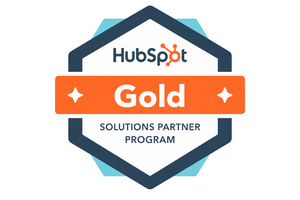
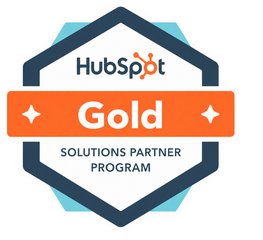
Fix footer HubSpot Gold badge shrinking
The badge image sat in a flex row next to long text and was squeezed
(max-width: 100% on a shrinkable flex item), and the source image had
wide transparent side margins. Trim the margins from the original,
keep the picture from shrinking, and show it at 84px tall.

Claude-Session: https://claude.ai/code/session_019GC5r8s4FTnHNDF9WF2C3v

Changed region(s): [[0.0, 0.03, 0.9125, 0.96], [0.5475, 0.84, 0.6084, 0.9]]

diff --git a/assets/css/site.css b/assets/css/site.css
@@ -611,8 +611,9 @@ body.is-dragging, body.is-dragging * { cursor: grabbing !important; }
 .footer-brand img.footer-logo { height: 40px; width: auto; }
 .footer-brand__tagline { margin-top: 18px; font-weight: 600; font-size: 17px; letter-spacing: -.02em; }
 .footer-brand p { margin-top: 10px; color: var(--text-3); font-size: 14px; line-height: 1.7; max-width: 360px; }
-.footer-badge { display: flex; align-items: center; gap: 14px; margin-top: 22px; }
-.footer-badge img { height: 64px; width: auto; }
+.footer-badge { display: flex; align-items: center; gap: 16px; margin-top: 22px; }
+.footer-badge picture { flex: 0 0 auto; }
+.footer-badge img { height: 84px; width: auto; max-width: none; }
 .footer-badge p { margin: 0; font-size: 12.5px; line-height: 1.55; }
 .footer-col h2 { font: 500 12px/1.2 var(--mono); letter-spacing: .1em; text-transform: uppercase; color: var(--text-3); margin-bottom: 16px; }
 .footer-col a { display: block; width: fit-content; padding: 6px 0; font-size: 14.5px; color: var(--text-2); transition: color .2s, transform .2s var(--ease); }

diff --git a/tools/optimize-images.py b/tools/optimize-images.py
@@ -12,7 +12,7 @@ CLIENT_LOGOS = ['ESA-1', 'BH-Labs-1', 'CW-Systems-1', 'Independent-Energy-1', 'I
                 'modern-engineering-1', 'private-tax-solutions-1', 'S8T-1', 'broker-capital-1', 'crypto-consulting-1', 'guitierrez-1']
 # name -> (max width, max height). Shown sizes: marquee logos 44px tall, partner badge 64px tall,
 # integration logos 24-30px. The founder photo is already sized for its ~420px slot.
-LIMITS = {**{n: (480, 132) for n in CLIENT_LOGOS}, 'HubSpot-Gold-Badge': (300, 200)}
+LIMITS = {**{n: (480, 132) for n in CLIENT_LOGOS}, 'HubSpot-Gold-Badge': (300, 240)}  # source trimmed to the badge (no side margins)
 LIMITS.update({p.stem: (128, 128) for p in root.glob('integration-logo-*.png')})
 
 for stem, (mw, mh) in LIMITS.items():
